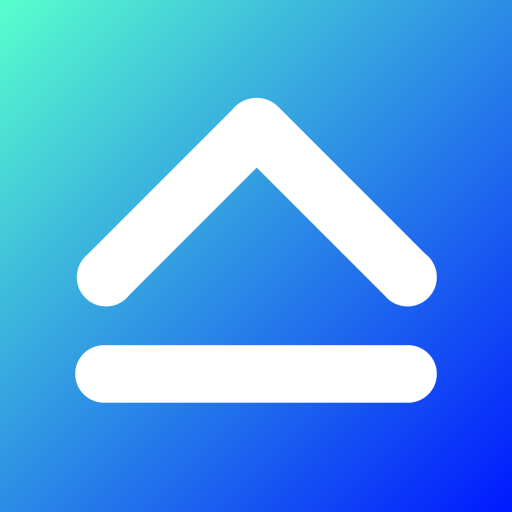
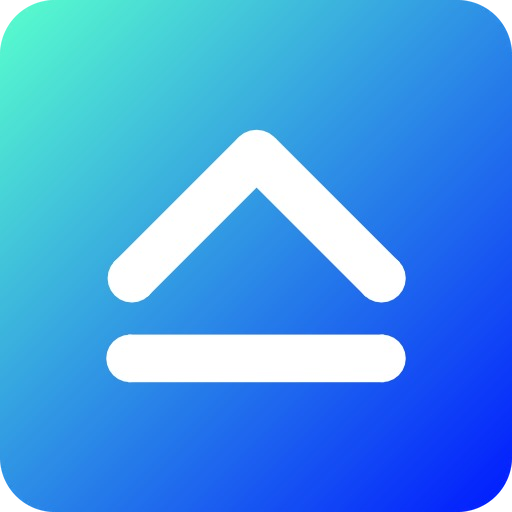
feat(brand): the rounded mark is the master (T91)
brand/icon.png is the client's 512x512 rounded artwork, and the Keycloak
theme's three icon sizes are rebuilt from it. Every other size (toolbar,
Web Store, favicon, apple-touch) is resized from the same file at build.

The export arrived as a JPEG, which has no alpha: the corners outside the
rounded tile were opaque white. They are cut to transparency along the
artwork's own arc (r = 54.5px), with the white-blended edge pixels
recoloured from just inside it. Nothing else in the artwork is changed.

diff --git a/docs/backlog.md b/docs/backlog.md
@@ -1988,19 +1988,26 @@ so the cards become Overstappen.
 ## Client review of 2026-11-13
 
 Eight tweaks arrived in one message. 2, 3, 5 and 6 shipped in #200 (copy, the popup hero mark, the
-branded meter and the primary button's corner tint), and the store listing took the same copy. One waits
-on an asset, and three are **out of scope for this round** — each is quoted separately, as a fixed price
-for the pieces listed under it, at the sizes given (S ≈ under a day · M ≈ 1–3 days · L ≈ 3+ days).
+branded meter and the primary button's corner tint), and the store listing took the same copy. The one
+that waited on an asset has since landed (T91), and three are **out of scope for this round** — each is
+quoted separately, as a fixed price for the pieces listed under it, at the sizes given (S ≈ under a day · M ≈ 1–3 days · L ≈ 3+ days).
 Nothing below is decided; the client has not asked for any of it to be built.
 
-#### T91 · The rounded mark · **XS** · waiting on the client's 512px export
-The client sent the rounded artwork at 128×128; `iconSet` refuses a master smaller than the largest size
-asked of it (the 180px apple-touch icon), and upscaling would blur every large derivative. When the 512px
-PNG arrives: replace `brand/icon.png`, rebuild `apps/keycloak-theme` and commit the regenerated theme.
-That one file is the tab favicon, the toolbar and chrome://extensions icon, the Web Store icon, the login
-page's mark and the apple-touch icon — and it **finishes tweak 5**, since the login mark is over-large only
-because the current master's glyph fills ~80% of its tile and the rounded one's fills ~55%, the header's
-proportion. Note for iOS: a pre-rounded icon shows its transparent corners on a home screen.
+#### T91 · The rounded mark · **XS** · **done 2026-11-15**
+`brand/icon.png` is the client's rounded artwork at 512×512, and `apps/keycloak-theme/theme/` is rebuilt
+from it. That one file is the tab favicon, the toolbar and chrome://extensions icon, the Web Store icon,
+the login page's mark and the apple-touch icon — and it **finishes tweak 5**, since the login mark was
+over-large only because the old master's glyph filled ~80% of its tile and this one's fills ~55%, the
+header's proportion.
+- **The export arrived as a JPEG, so its corners were cut here.** A JPEG has no alpha: the four corners
+  outside the rounded tile were opaque white, which is a white square on a dark toolbar. The master is that
+  file with the corners made transparent along the artwork's own arc (radius 54.5px, measured), and the
+  edge pixels the JPEG had blended into white recoloured from just inside it. Nothing else is touched; a
+  PNG export with real transparency, if the client sends one, replaces it the same way and is lossless
+  around the glyph where this one is not.
+- **Note for iOS:** a pre-rounded icon shows its transparent corners on a home screen.
+- **Not redrawn:** `store/media/promo/` are committed images made by hand, and the popup header draws the
+  vector (T48).
 
 #### T92 · "Prijs op aanvraag" — the top plan sold by quote · **out of scope** · quote ≈ 4–6 days
 **Why it cannot be done by hand today.** A quote is a price for one customer, and the catalog has no place
